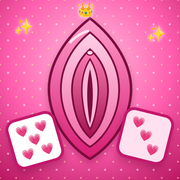
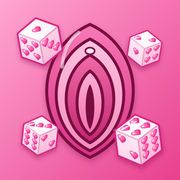
Add files via upload

diff --git a/index.html b/index.html
@@ -14,8 +14,8 @@
 <meta property="og:image:width" content="1200"><meta property="og:image:height" content="630">
 <meta name="twitter:card" content="summary_large_image">
 <link rel="manifest" href="manifest.webmanifest">
-<link rel="icon" type="image/png" href="icon-192.png">
-<link rel="apple-touch-icon" href="apple-touch-icon.png">
+<link rel="icon" type="image/png" href="icon-192.png?v=2">
+<link rel="apple-touch-icon" href="apple-touch-icon.png?v=2">
 <meta name="apple-mobile-web-app-capable" content="yes">
 <meta name="mobile-web-app-capable" content="yes">
 <meta name="apple-mobile-web-app-title" content="PussyKniffel">
